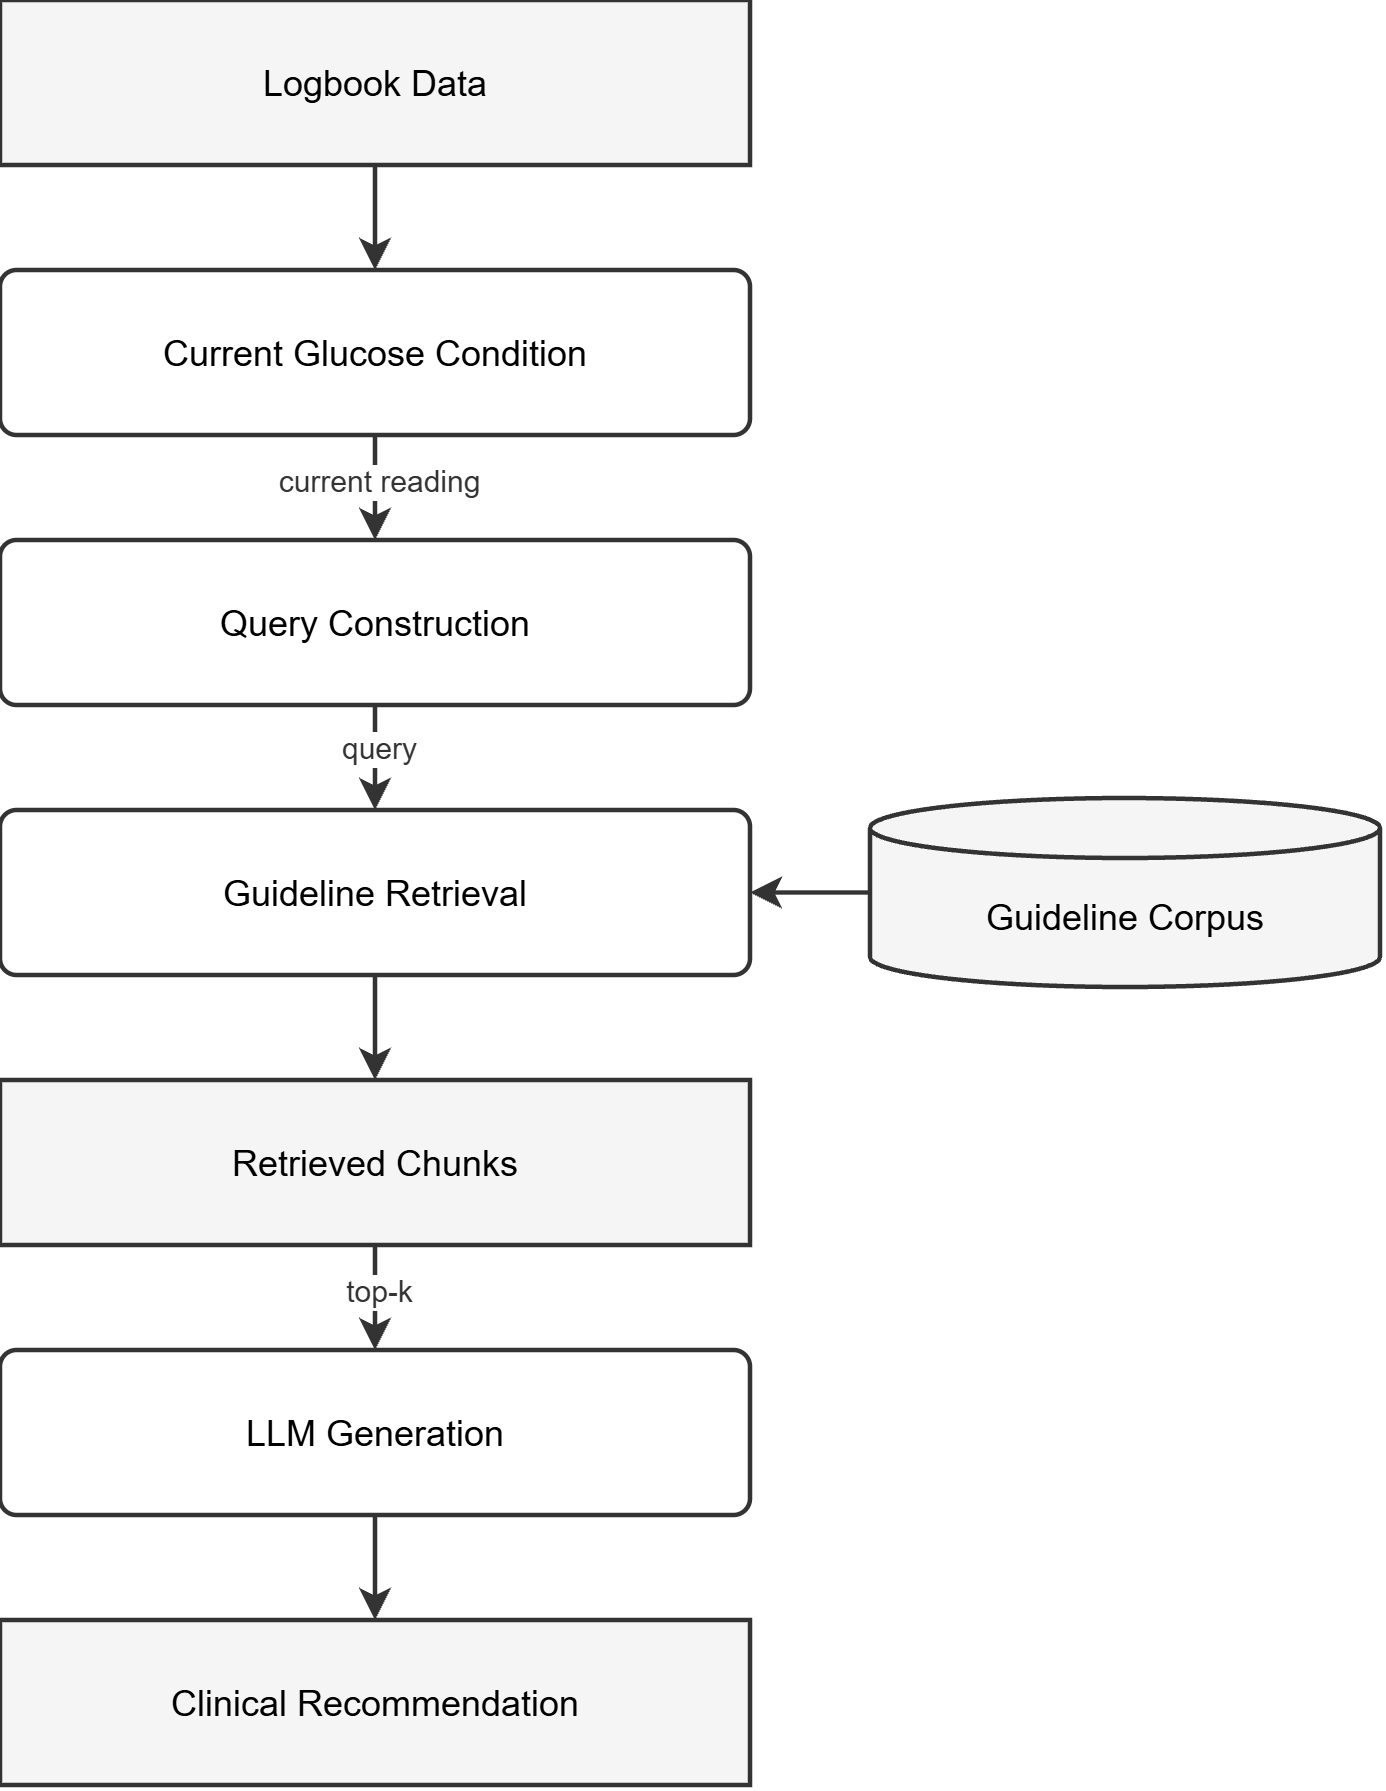
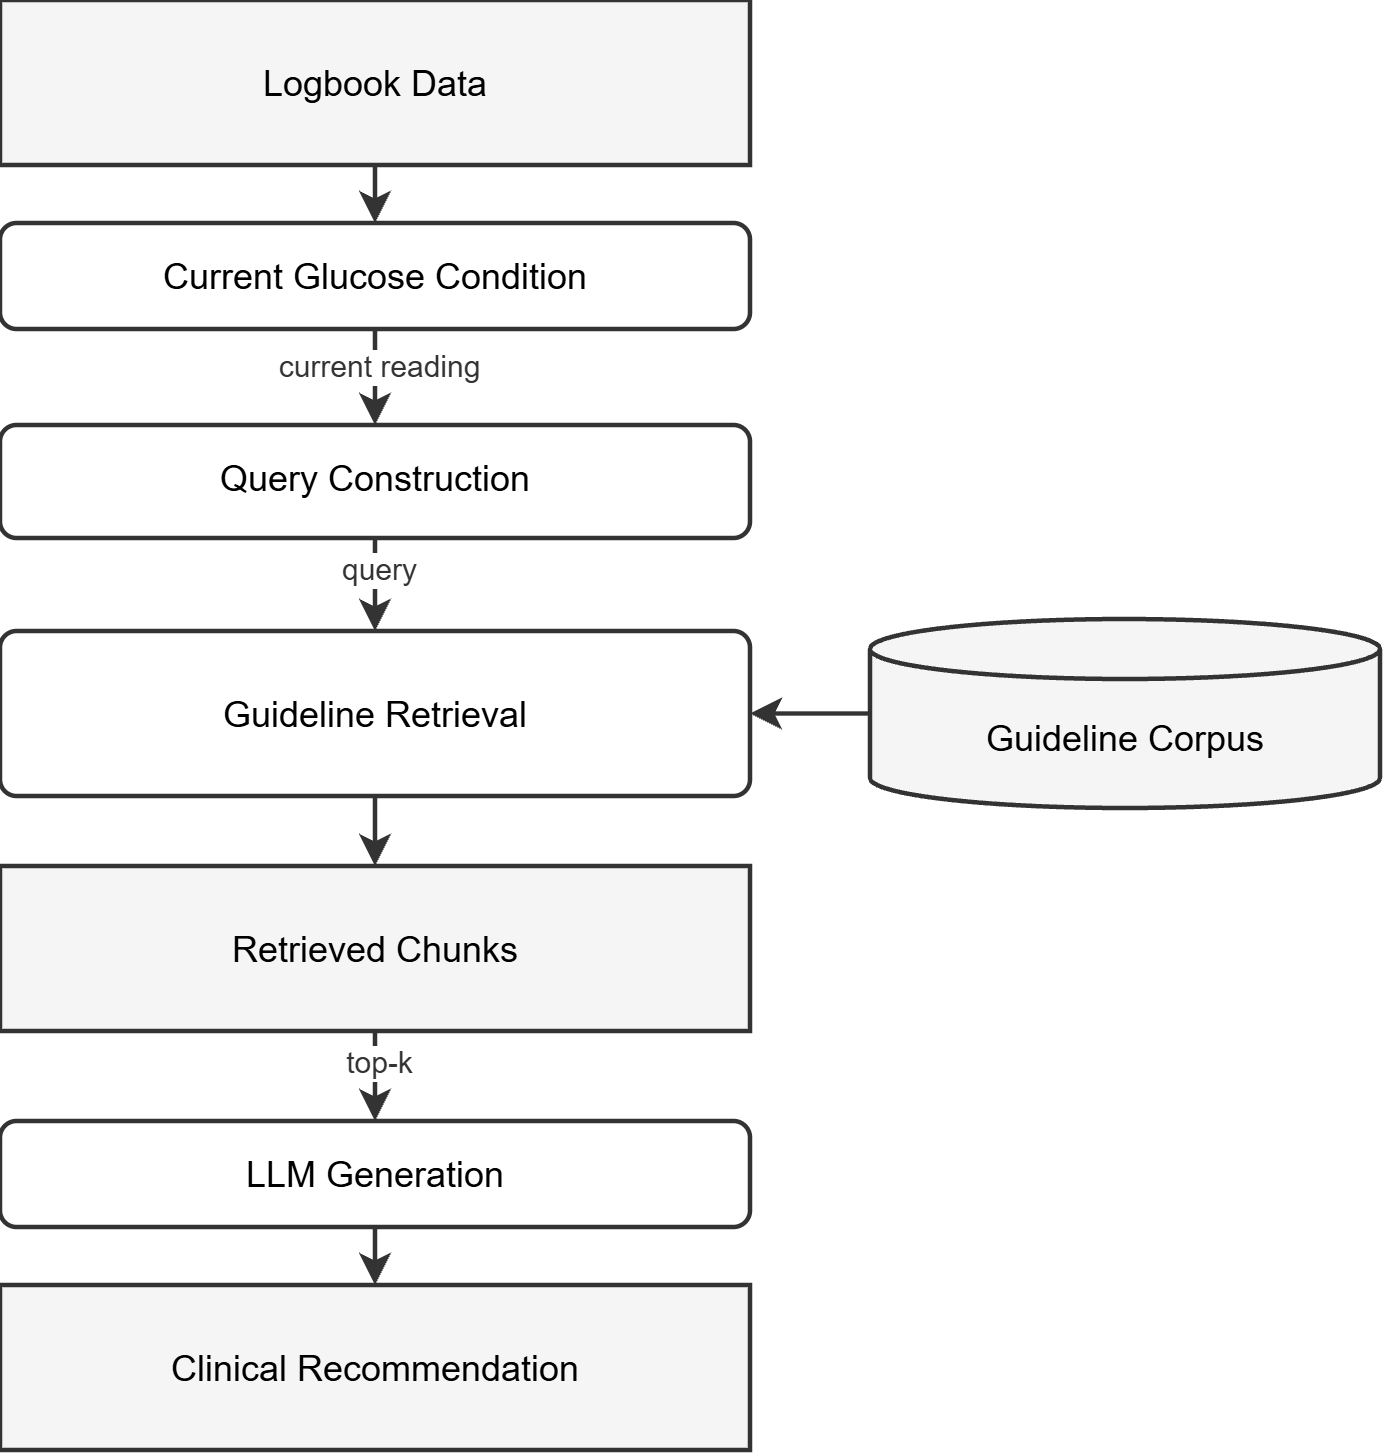
Cegah paragraf terbelah halaman Gambar IV.1 dan susun ulang Gambar IV.3-IV.4

diff --git a/docs/laporan_TA/TA-STI-template-1.0/Bab IV - Perancangan.tex b/docs/laporan_TA/TA-STI-template-1.0/Bab IV - Perancangan.tex
@@ -9,7 +9,7 @@ Secara umum, arsitektur mengintegrasikan modul prediksi kadar glukosa dengan mek
 yang dapat digunakan sebagai pendukung keputusan klinis. Sistem dibagi menjadi tiga komponen yang masing-masing mewujudkan satu tujuan artefak penelitian: modul prediksi (T1),
 mekanisme \textit{query transformation} berbasis kondisi terprediksi (T2), dan integrasi ke dalam CDSS beralur \textit{doctor-mediated} (T3).
 
-Gambaran keseluruhan komponen dan hubungan antarkomponen ditunjukkan pada Gambar~\ref{fig:fig4.1_arsitektur_sistem}.
+Gambaran keseluruhan komponen dan hubungan antarkomponen ditunjukkan pada Gambar~\ref{fig:fig4.1_arsitektur_sistem} pada halaman berikutnya.
 
 \begin{figure}[p]
     \centering
@@ -33,6 +33,9 @@ Gambar~\ref{fig:fig4.1_arsitektur_sistem} memperlihatkan hubungan antara proses 
 prediksi, dataset OhioT1DM melalui tahap prapemrosesan, rekayasa fitur, pembentukan vektor fitur, pelatihan model kandidat, evaluasi, dan pemilihan model. Hasil dari rangkaian tersebut
 adalah model prediksi terpilih yang digunakan pada proses prediksi sistem.
 
+% Halaman float Gambar IV.1 menyusul di sini; pindah halaman di batas paragraf
+% agar paragraf berikut tidak terbelah oleh halaman gambar.
+\newpage
 Pada sisi pengetahuan klinis, dokumen pedoman melalui prapemrosesan dokumen, pembentukan representasi pengetahuan, dan pengindeksan. Proses tersebut menghasilkan basis pengetahuan yang
 menyediakan indeks untuk penelusuran informasi klinis. Indeks dibangun dari potongan dokumen yang sudah dilengkapi metadata sumber, sehingga metadata dan struktur informasi tetap terbawa sepanjang proses retrieval.
 
@@ -286,30 +289,33 @@ memasukkan konteks kondisi yang relevan bagi penelusuran. Pada sistem ini, konte
 Untuk memperjelas perbedaan sumber konteks, Gambar~\ref{fig:fig4.3_rag-konvensional} memperlihatkan alur RAG konvensional. Pada alur tersebut, data logbook digunakan untuk memperoleh
 kondisi glukosa saat ini, kemudian kondisi tersebut menjadi dasar pembentukan kueri sebelum pedoman ditelusuri.
 
-\begin{figure}[!htbp]
-    \centering
-    \includegraphics[
-        height=0.44\textheight,
-        keepaspectratio
-    ]{images/bab4/fig4.3_rag_konvensional.png}
-    \caption{Alur RAG konvensional dengan kondisi glukosa saat ini sebagai konteks kueri.}
-    \label{fig:fig4.3_rag-konvensional}
-\end{figure}
-
 Sebaliknya, Gambar~\ref{fig:fig4.4_rag-terkondisi-prediksi} menunjukkan rancangan yang diusulkan. Data logbook terlebih dahulu diproses menjadi fitur dan digunakan oleh model prediksi
 untuk menghasilkan kadar glukosa terprediksi beserta ketidakpastiannya. Hasil tersebut diterjemahkan menjadi \textit{clinical state} dan kemudian digunakan untuk membentuk kueri yang
 dikondisikan pada keadaan yang diperkirakan.
+
+% Tidak mengambang, diletakkan setelah kedua paragraf perujuk agar Gambar IV.3,
+% paragraf pembeda, dan Gambar IV.4 muat berurutan pada satu halaman.
+\begin{center}
+\begin{minipage}{\textwidth}
+    \centering
+    \includegraphics[
+        height=0.34\textheight,
+        keepaspectratio
+    ]{images/bab4/fig4.3_rag_konvensional.png}
+    \captionof{figure}{Alur RAG konvensional dengan kondisi glukosa saat ini sebagai konteks kueri.}
+    \label{fig:fig4.3_rag-konvensional}
+\end{minipage}
+\end{center}
 
 Perbedaan kedua alur terletak pada kondisi yang dipakai membentuk kueri sebelum retrieval. Pada RAG konvensional, kondisi yang tersedia pada saat pengamatan menjadi konteks pembentukan
 kueri. Pada pendekatan yang diusulkan, kondisi saat ini digantikan oleh keadaan yang diprediksi sebagai dasar kueri, sehingga retrieval diarahkan pada informasi yang berkaitan dengan
 kondisi masa depan.
 
-% Tidak mengambang: sebagai float gambar ini memisahkan Persamaan IV.3 dari kalimat penjelasnya.
 \begin{center}
 \begin{minipage}{\textwidth}
     \centering
     \includegraphics[
-        height=0.44\textheight,
+        height=0.34\textheight,
         keepaspectratio
     ]{images/bab4/fig4.4_rag_terkondisi_prediksi.png}
     \captionof{figure}{Alur RAG terkondisi-prediksi dengan kondisi glukosa terprediksi sebagai konteks kueri.}
